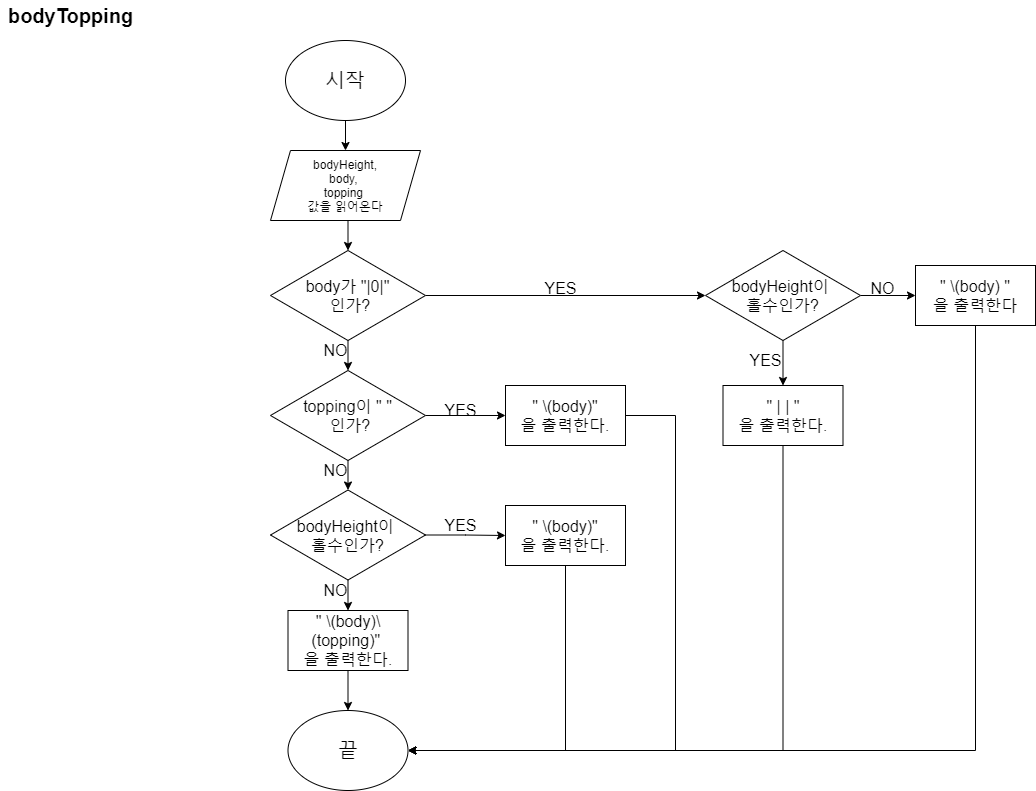
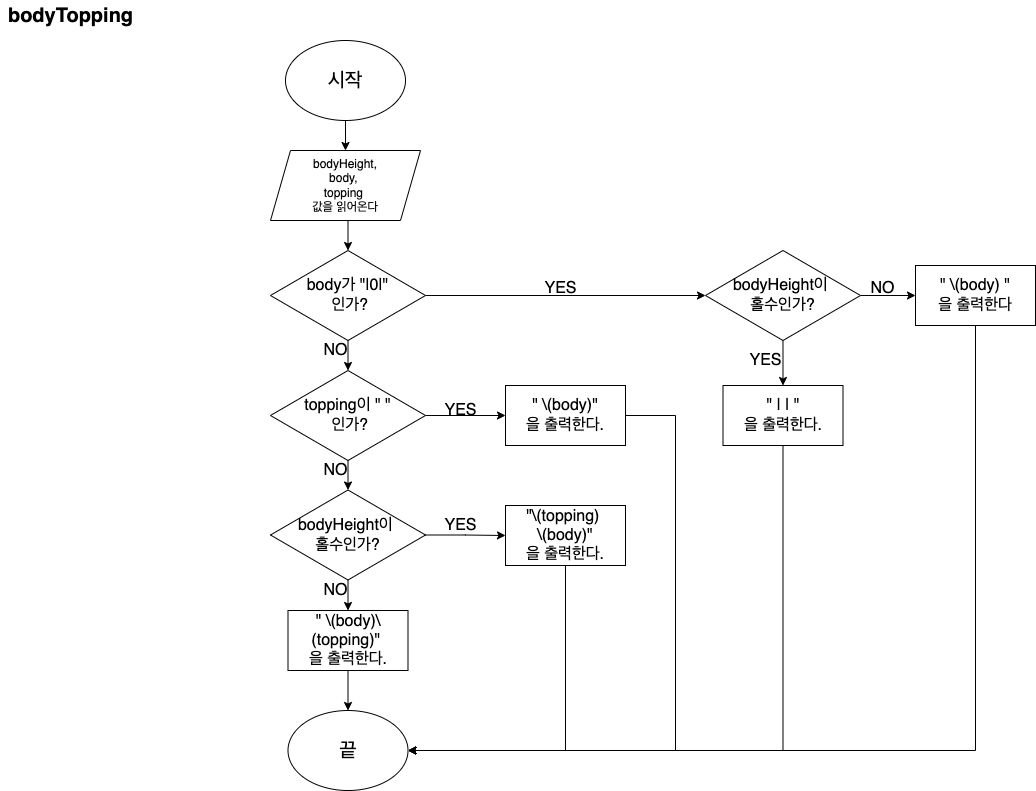
modify step3

diff --git a/CodeStarterCamp_Week1/Pepero.swift b/CodeStarterCamp_Week1/Pepero.swift
@@ -12,22 +12,19 @@ class Pepero {
     
     // 몸통(String), 토핑(String)을 매개변수로 받아 토핑과 몸통을 그리는 함수
     func bodyTopping(bodyHeight: Int, body: String, topping: String) {
-        if(body == "|0|") {
-            if(bodyHeight%2 == 1) {
+        if body == "|0|" {
+            if bodyHeight % 2 == 1 {
                 print(" | | ")
-            }else {
+            } else {
                 print(" \(body) ")
             }
-        }else if(topping == "") {
+        } else if topping == "" {
             print(" \(body)")
-        }else if(bodyHeight%2 == 1) {
+        } else if bodyHeight % 2 == 1 {
             print("\(topping)\(body)")
-        }else {
+        } else {
             print(" \(body)\(topping)")
         }
-       /* }else{
-            print("error")
-        }*/
     }
     
     // 길이(Int)에 따라 몸통을 그리는 함수
@@ -58,5 +55,6 @@ class Pepero {
         peperoInformation(bodyHeight: bodyHeight, body: body, topping: topping, stickHeight: stickHeight)
         PeperoBody(bodyHeight: bodyHeight, body: body, topping: topping)
         peperoStick(stickHeight: stickHeight)
+        print("\n\n")
     }
 }

diff --git a/CodeStarterCamp_Week1/main.swift b/CodeStarterCamp_Week1/main.swift
@@ -8,12 +8,36 @@
 
 import Foundation
 
-//step3
-let bodyHeight: Int = 6
-let body: String = "***"
-let topping: String = " "
-let stickHeight: Int = 4
+//예시1
+var bodyHeight: Int = 10
+var body: String = "***"
+var topping: String = " "
+var stickHeight: Int = 4
 
 
 var pepero: Pepero = Pepero()
+pepero.finalPepero(bodyHeight: bodyHeight, body: body, topping: topping, stickHeight: stickHeight)
+
+//예시2
+bodyHeight = 12
+body = "***"
+topping = "&"
+stickHeight = 4
+
+pepero.finalPepero(bodyHeight: bodyHeight, body: body, topping: topping, stickHeight: stickHeight)
+
+//예시3
+bodyHeight = 12
+body = "***"
+topping = "#"
+stickHeight = 6
+
+pepero.finalPepero(bodyHeight: bodyHeight, body: body, topping: topping, stickHeight: stickHeight)
+
+//예시4
+bodyHeight = 6
+body = "|0|"
+topping = " "
+stickHeight = 4
+
 pepero.finalPepero(bodyHeight: bodyHeight, body: body, topping: topping, stickHeight: stickHeight)
